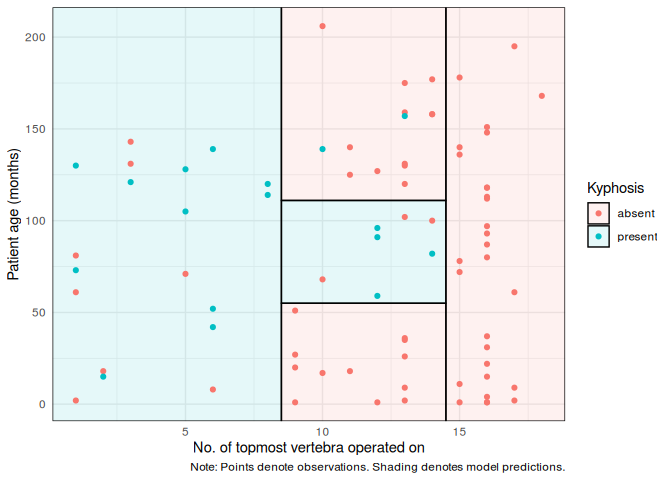
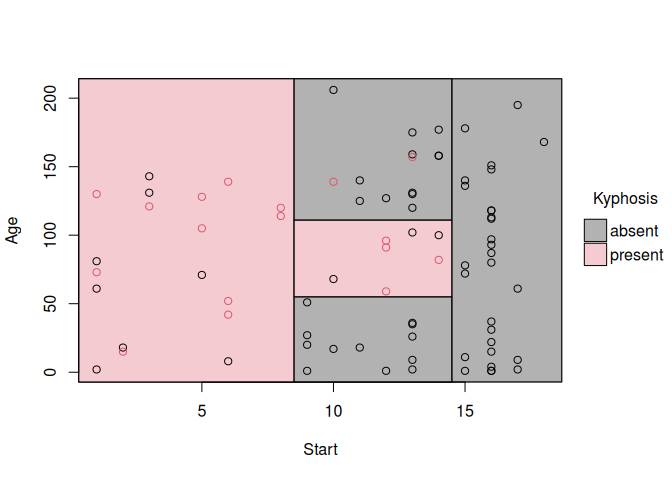
update README

diff --git a/README.md b/README.md
@@ -10,18 +10,17 @@
 <!-- badges: end -->
 
 Visualize simple 2-D decision tree partitions in R. The **parttree**
-package is optimised to work with
-[**ggplot2**](https://ggplot2.tidyverse.org/), although it can be used
-to visualize tree partitions with base R graphics too.
+package provides visualization methods for both base R graphics (via
+[**tinyplot**](https://grantmcdermott.com/tinyplot/)) and
+[**ggplot2**](https://ggplot2.tidyverse.org/).
 
 ## Installation
 
-This package is not yet on CRAN, but can be installed from
-[GitHub](https://github.com/) with:
+This package is not on CRAN yet, but can be installed from
+[r-universe](https://grantmcdermott.r-universe.dev/parttree):
 
 ``` r
-# install.packages("remotes")
-remotes::install_github("grantmcdermott/parttree")
+install.packages("parttree", repos = "https://grantmcdermott.r-universe.dev")
 ```
 
 ## Quickstart
@@ -34,15 +33,49 @@ quickstart example using the
 dataset that comes bundled with the **rpart** package. In this case, we
 are interested in predicting kyphosis recovery after spinal surgery, as
 a function of 1) the number of topmost vertebra that were operated, and
-2) patient age. The key visualization layer below—provided by this
-package—is `geom_partree()`.
+2) patient age.
+
+The key function is `parttree()`, which comes with its own plotting
+method.
 
 ``` r
 library(rpart)     # For the dataset and fitting decisions trees
-library(parttree)  # This package (will automatically load ggplot2 too)
-#> Loading required package: ggplot2
+library(parttree)  # This package
 
 fit = rpart(Kyphosis ~ Start + Age, data = kyphosis)
+
+# Grab the partitions and plot
+fit_pt = parttree(fit)
+plot(fit_pt)
+```
+
+<img src="man/figures/README-quickstart-1.png" width="100%" />
+
+Customize your plots by passing additional arguments:
+
+``` r
+plot(
+  fit_pt,
+  border  = NA, # no partition borders
+  pch     = 19, # filled points
+  alpha   = 0.6, # point transparency
+  grid    = TRUE, # background grid
+  palette = "classic", # new colour palette
+  xlab    = "Topmost vertebra operated on", # custom x title
+  ylab    = "Patient age (months)", # custom y title
+  main    = "Tree predictions: Kyphosis recurrence" # custom title
+)
+```
+
+<img src="man/figures/README-quickstart2-1.png" width="100%" />
+
+### ggplot2
+
+For **ggplot2** users, we offer an equivalent workflow via the
+`geom_partree()` visualization layer.
+
+``` r
+library(ggplot2) ## Should be loaded separately
 
 ggplot(kyphosis, aes(x = Start, y = Age)) +
   geom_parttree(data = fit, alpha = 0.1, aes(fill = Kyphosis)) + # <-- key layer
@@ -54,4 +87,4 @@ ggplot(kyphosis, aes(x = Start, y = Age)) +
   theme_minimal()
 ```
 
-<img src="man/figures/README-quickstart-1.png" width="100%" />
+<img src="man/figures/README-quickstart_gg-1.png" width="100%" />
